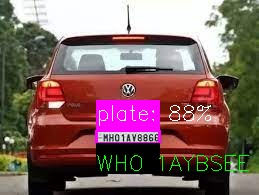
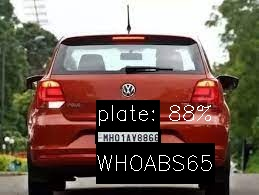
api

Changed region(s): [[0.3398, 0.4923, 0.9575, 0.9538]]

diff --git a/deeplearning.py b/deeplearning.py
@@ -2,7 +2,22 @@ import numpy as np
 import cv2
 import matplotlib.pyplot as plt
 import pytesseract as pt
+import re
+import json
+import requests
+import os
+from dotenv import load_dotenv
 
+load_dotenv()
+
+headers = os.getenv("API_HEADERS")
+url = os.getenv("API_URL")
+
+data = {
+    "providers": "google",
+    "language": "en",
+    "fallback_providers": ""
+}
 
 # Loading MODEL
 INPUT_WIDTH =  640
@@ -14,25 +29,20 @@ net.setPreferableTarget(cv2.dnn.DNN_TARGET_CPU)
 
 
 def get_detections(img,net):
-    # CONVERT IMAGE TO FORMAT
     image = img.copy()
     row, col, d = image.shape
 
     max_rc = max(row,col)
     input_image = np.zeros((max_rc,max_rc,3),dtype=np.uint8)
     input_image[0:row,0:col] = image
-
-    # GET PREDICTION FROM MODEL
-    blob = cv2.dnn.blobFromImage(input_image,1/255,(INPUT_WIDTH,INPUT_HEIGHT),swapRB=True,crop=False)
+    blob = cv2.dnn.blobFromImage(input_image,1/255,(INPUT_WIDTH,INPUT_HEIGHT),swapRB=True,crop=False) #gets predication
     net.setInput(blob)
     preds = net.forward()
     detections = preds[0]
     
     return input_image, detections
 
-def non_maximum_supression(input_image,detections):
-    # FILTER DETECTIONS BASED ON CONFIDENCE AND PROBABILIY SCORE
-    # center x, center y, w , h, conf, proba
+def filter_detection(input_image,detections):
     boxes = []
     confidences = []
 
@@ -42,7 +52,7 @@ def non_maximum_supression(input_image,detections):
 
     for i in range(len(detections)):
         row = detections[i]
-        confidence = row[4] # confidence of detecting license plate
+        confidence = row[4]
         if confidence > 0.4:
             class_score = row[5] # probability score of license plate
             if class_score > 0.25:
@@ -73,74 +83,88 @@ def non_maximum_supression(input_image,detections):
 #         roi_bgr = cv2.cvtColor(roi,cv2.COLOR_RGB2BGR)
 #         gray = cv2.cvtColor(roi_bgr,cv2.COLOR_BGR2GRAY)
 #         magic_color = apply_brightness_contrast(gray,brightness=40,contrast=70)
-#         #text = pt.image_to_string(magic_color)
 #         text = pt.image_to_string(magic_color,lang='eng',config='--psm 6')
 #         text = text.strip()
         
 #         return text
 # -----------------------------------------------------------------
 
+def extract_text(image, bbox):
+    x, y, w, h = bbox
+    roi = image[y:y+h, x:x+w]
+    if 0 in roi.shape:
+        return ''    
+    gray_roi = cv2.cvtColor(roi, cv2.COLOR_RGB2GRAY)   
+    _, thresh_roi = cv2.threshold(gray_roi, 0, 255, cv2.THRESH_BINARY + cv2.THRESH_OTSU)   
+    inverted_roi = cv2.bitwise_not(thresh_roi)
+    text = pt.image_to_string(inverted_roi, lang='eng', config='--psm 6')
+    text = ''.join(filter(str.isalnum, text))
+    text = text.strip()
+    return text
+
 # def extract_text(image, bbox):
 #     x, y, w, h = bbox
-
 #     roi = image[y:y+h, x:x+w]
-
      
 #     if 0 in roi.shape:
 #         return ''
 
-    
-#     gray_roi = cv2.cvtColor(roi, cv2.COLOR_RGB2GRAY)
-
-    
-#     _, thresh_roi = cv2.threshold(gray_roi, 0, 255, cv2.THRESH_BINARY + cv2.THRESH_OTSU)
-
-    
-#     inverted_roi = cv2.bitwise_not(thresh_roi)
-
-    
+#     _, thresh_roi = cv2.threshold(cv2.cvtColor(roi, cv2.COLOR_RGB2GRAY), 0, 255, cv2.THRESH_BINARY + cv2.THRESH_OTSU)
 #     text = pt.image_to_string(inverted_roi, lang='eng', config='--psm 6')
-
-     
+#     text = ''.join(filter(str.isalnum, text))
 #     text = text.strip()
 
 #     return text
 
-# Example usage
-# result_text = extract_text(image, bbox)
 
-def extract_text(image, bbox):
-    x, y, w, h = bbox
-    roi = image[y:y+h, x:x+w]
-     
-    if 0 in roi.shape:
-        return ''
+# def drawings(image, boxes_np, confidences_np, index, path):
+#     text_list = []
+#     for ind in index:
+#         x, y, w, h = boxes_np[ind]
+#         bb_conf = confidences_np[ind]
+#         conf_text = 'plate: {:.0f}%'.format(bb_conf * 100)
 
-    _, thresh_roi = cv2.threshold(cv2.cvtColor(roi, cv2.COLOR_RGB2GRAY), 0, 255, cv2.THRESH_BINARY + cv2.THRESH_OTSU)
-    inverted_roi = cv2.bitwise_not(thresh_roi)
-    text = pt.image_to_string(inverted_roi, lang='eng', config='--psm 6')
-    text = text.strip()
+#         # Send image data to the API
+#         # with open(image, 'rb') as img_file:
+#         files = {"file": open(path, 'rb')}
+#         print("Image ------ ",image)
+#         response = requests.post(url, data=data, files=files, headers=headers)
 
-    return text
+#         if response.status_code == 200:
+#             # Convert the response to JSON
+#             license_text = json.loads(response.text)
+#             print(license_text)
+
+#             text_width, text_height = cv2.getTextSize(str(license_text), cv2.FONT_HERSHEY_SIMPLEX, 0.7, 1)[0]
+#             cv2.rectangle(image, (x, y), (x+w, y+h), (0, 0, 0), 2)
+#             cv2.rectangle(image, (x, y-30), (x+w, y), (0, 0, 0), -1)
+#             cv2.rectangle(image, (x, y+h), (x+max(text_width, w), y+h+40), (0, 0, 0), -1)
+
+#             cv2.putText(image, conf_text, (x, y-10), cv2.FONT_HERSHEY_SIMPLEX, 0.7, (255, 255, 255), 1)
+#             cv2.putText(image, str(license_text), (x, y+h+27), cv2.FONT_HERSHEY_SIMPLEX, 0.7, (255, 255, 255), 1)
+
+#             text_list.append(license_text)
+
+#     return image, text_list
 
 
-
-def drawings(image,boxes_np,confidences_np,index):
+def drawings(image,boxes_np,confidences_np,index, path):
     text_list = []
     for ind in index:
         x,y,w,h =  boxes_np[ind]
         bb_conf = confidences_np[ind]
         conf_text = 'plate: {:.0f}%'.format(bb_conf*100)
         license_text = extract_text(image,boxes_np[ind])
+        
+        text_width, text_height = cv2.getTextSize(license_text, cv2.FONT_HERSHEY_SIMPLEX, 0.7, 1)[0]
 
-
-        cv2.rectangle(image,(x,y),(x+w,y+h),(255,0,255),2)
-        cv2.rectangle(image,(x,y-30),(x+w,y),(255,0,255),-1)
-        cv2.rectangle(image,(x,y+h),(x+w,y+h+30),(0,0,0),-1)
+        cv2.rectangle(image,(x,y),(x+w,y+h),(0,0,0),2)
+        cv2.rectangle(image,(x,y-30),(x+w,y),(0,0,0),-1)
+        cv2.rectangle(image,(x,y+h),(x+max(text_width,w),y+h+40),(0,0,0),-1)
 
 
         cv2.putText(image,conf_text,(x,y-10),cv2.FONT_HERSHEY_SIMPLEX,0.7,(255,255,255),1)
-        cv2.putText(image,license_text,(x,y+h+27),cv2.FONT_HERSHEY_SIMPLEX,0.7,(0,255,0),1)
+        cv2.putText(image,license_text,(x,y+h+27),cv2.FONT_HERSHEY_SIMPLEX,0.7,(255,255,255),1)
         
         text_list.append(license_text)
 
@@ -148,40 +172,24 @@ def drawings(image,boxes_np,confidences_np,index):
 
 
 # predictions
-def predictions(img,net):
+def predictions(img,net, path):
     ## detections
     input_image, detections = get_detections(img,net)
-    boxes_np, confidences_np, index = non_maximum_supression(input_image, detections)
+    boxes_np, confidences_np, index = filter_detection(input_image, detections)
     ## Drawings
-    result_img, text = drawings(img,boxes_np,confidences_np,index)
+    result_img, text = drawings(img,boxes_np,confidences_np,index, path)
     return result_img, text
 
 
 def object_detection(path,filename):
     # read image
     image = cv2.imread(path)
+    # print(path)
     image = np.array(image,dtype=np.uint8)
-    result_img, text_list = predictions(image,net)
+    result_img, text_list = predictions(image,net,path)
     cv2.imwrite('./static/predict/{}'.format(filename),result_img)
     return text_list
 
-
-
-# def OCR(path,filename):
-#     img = np.array(load_img(path))
-#     cods = object_detection(path,filename)
-#     xmin ,xmax,ymin,ymax = cods[0]
-#     roi = img[ymin:ymax,xmin:xmax]
-#     roi_bgr = cv2.cvtColor(roi,cv2.COLOR_RGB2BGR)
-#     gray = cv2.cvtColor(roi_bgr,cv2.COLOR_BGR2GRAY)
-#     magic_color = apply_brightness_contrast(gray,brightness=40,contrast=70)
-#     cv2.imwrite('./static/roi/{}'.format(filename),roi_bgr)
-    
-    
-    
-#     print(text)
-#     save_text(filename,text)
-#     return text
 
 
 def apply_brightness_contrast(input_img, brightness = 0, contrast = 0):

diff --git a/app.py b/app.py
@@ -3,10 +3,8 @@ import os
 from deeplearning import object_detection
 from flask_mysqldb import MySQL
 import mysql.connector
-from fuzzywuzzy import fuzz
 import re
 
-# webserver gateway interface
 app = Flask(__name__)
 
 BASE_PATH = os.getcwd()
@@ -16,14 +14,19 @@ db = mysql.connector.connect(
     host="localhost",
     user="root",
     passwd="Edith@2023",
-    database="anpr"
+    database="ANPR_System"
 )
+
+if(db is not None):
+    print("connected to database")
 
 mysql = MySQL(app)
 
 cur = db.cursor()
 cur.execute("select vNO from VEHICLEDB")
 dbCol = cur.fetchall()
+
+# print(dbCol)
 
 @app.route('/',methods=['POST','GET'])
 def index():
@@ -34,21 +37,36 @@ def index():
         path_save = os.path.join(UPLOAD_PATH,filename)
         upload_file.save(path_save)
         text_list = object_detection(path_save,filename)
-
+        
+        
         print(text_list)
+
+        # def remove_non_alphanumeric(text):
+        #     return re.sub(r'[^a-zA-Z0-9]', '', text)
+        # text_list = [remove_non_alphanumeric(text) for text in text_list]
+
+        # print(text_list)
+
+        # print(type(text_list))
+
+        # cur.execute("SELECT * FROM VEHICLEDB WHERE vNO = (%s)", (text_list))
+        # feachdata = cur.fetchall()
+        # print(feachdata)
 
         def remove_non_alphanumeric(text):
             return re.sub(r'[^a-zA-Z0-9]', '', text)
-        text_list = [remove_non_alphanumeric(text) for text in text_list]   
-              
-        print(text_list)
 
-        cur.execute("SELECT * FROM VEHICLEDB WHERE vNO = (%s)", (text_list))
+        text_str = ''.join([remove_non_alphanumeric(text) for text in text_list])
+
+        print(text_str)
+
+        print(type(text_str))
+
+        cur = db.cursor()
+        cur.execute("SELECT * FROM VEHICLEDB WHERE vNO = (%s)", (text_str,))
         feachdata = cur.fetchall()
+        print(feachdata)
 
-
-        # cur.execute("select * from VEHICLEDB where vNO = (%s)", (text_list))
-        # feachdata = cur.fetchall() 
 
         return render_template('index.html',upload=True,upload_image=filename,text=text_list,no=len(text_list), rol=feachdata)
 
@@ -73,7 +91,6 @@ if __name__ =="__main__":
 #94
     #---------------------------------------------------------------
         # simVal = []
-        # mxThreshold = -1
 
         # for db_number in dbCol:
         #     similarity = fuzz.ratio(text_list, db_number)
@@ -86,7 +103,7 @@ if __name__ =="__main__":
         # print("Max Similarity : ", max(simVal))
         # cur.execute("select * from VEHICLEDB where vNO = (%s)", (dbCol[ind]))
         # feachdata = cur.fetchall() 
-
+    
 #110
 # ----------------------------------------------------------------------------
     # num = ''.join(text_list)
@@ -105,3 +122,6 @@ if __name__ =="__main__":
     # db.close() // if we uncomment this then we have to restart the server again and again
     # db.commit()
 
+
+
+# mysql-connector-python       8.2.0
